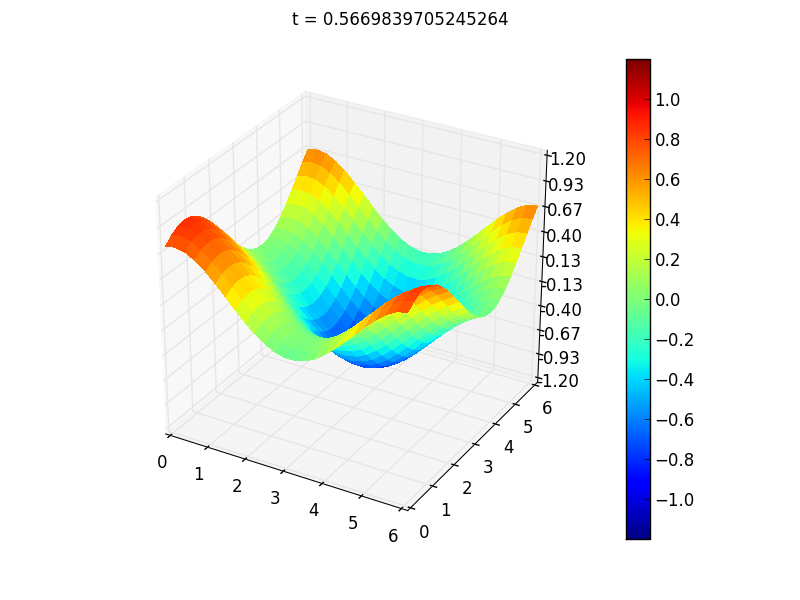
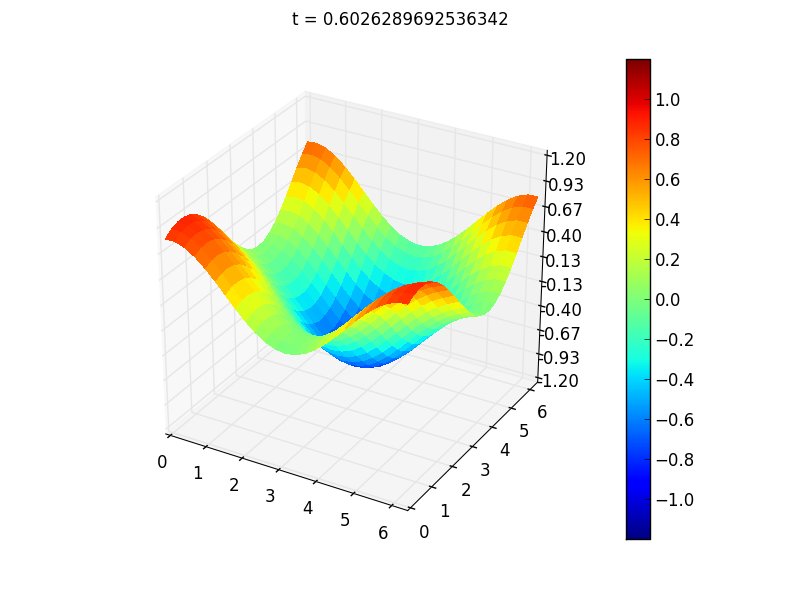
Correction dx dy

diff --git a/2DAdvDiffEq.py b/2DAdvDiffEq.py
@@ -74,8 +74,8 @@ for i in range(0,Nx):
 def plotFig(u_arr,numb,t):
 	fig = plt.figure()
 	ax = fig.gca(projection='3d')
-	X = np.arange(0, L, dx)
-	Y = np.arange(0, L, dy)
+	X = np.arange(0, L+dx, dx)
+	Y = np.arange(0, L+dy, dy)
 	X, Y = np.meshgrid(X, Y)
 	R = np.sqrt(X**2 + Y**2)
 	Z = np.sin(R)
